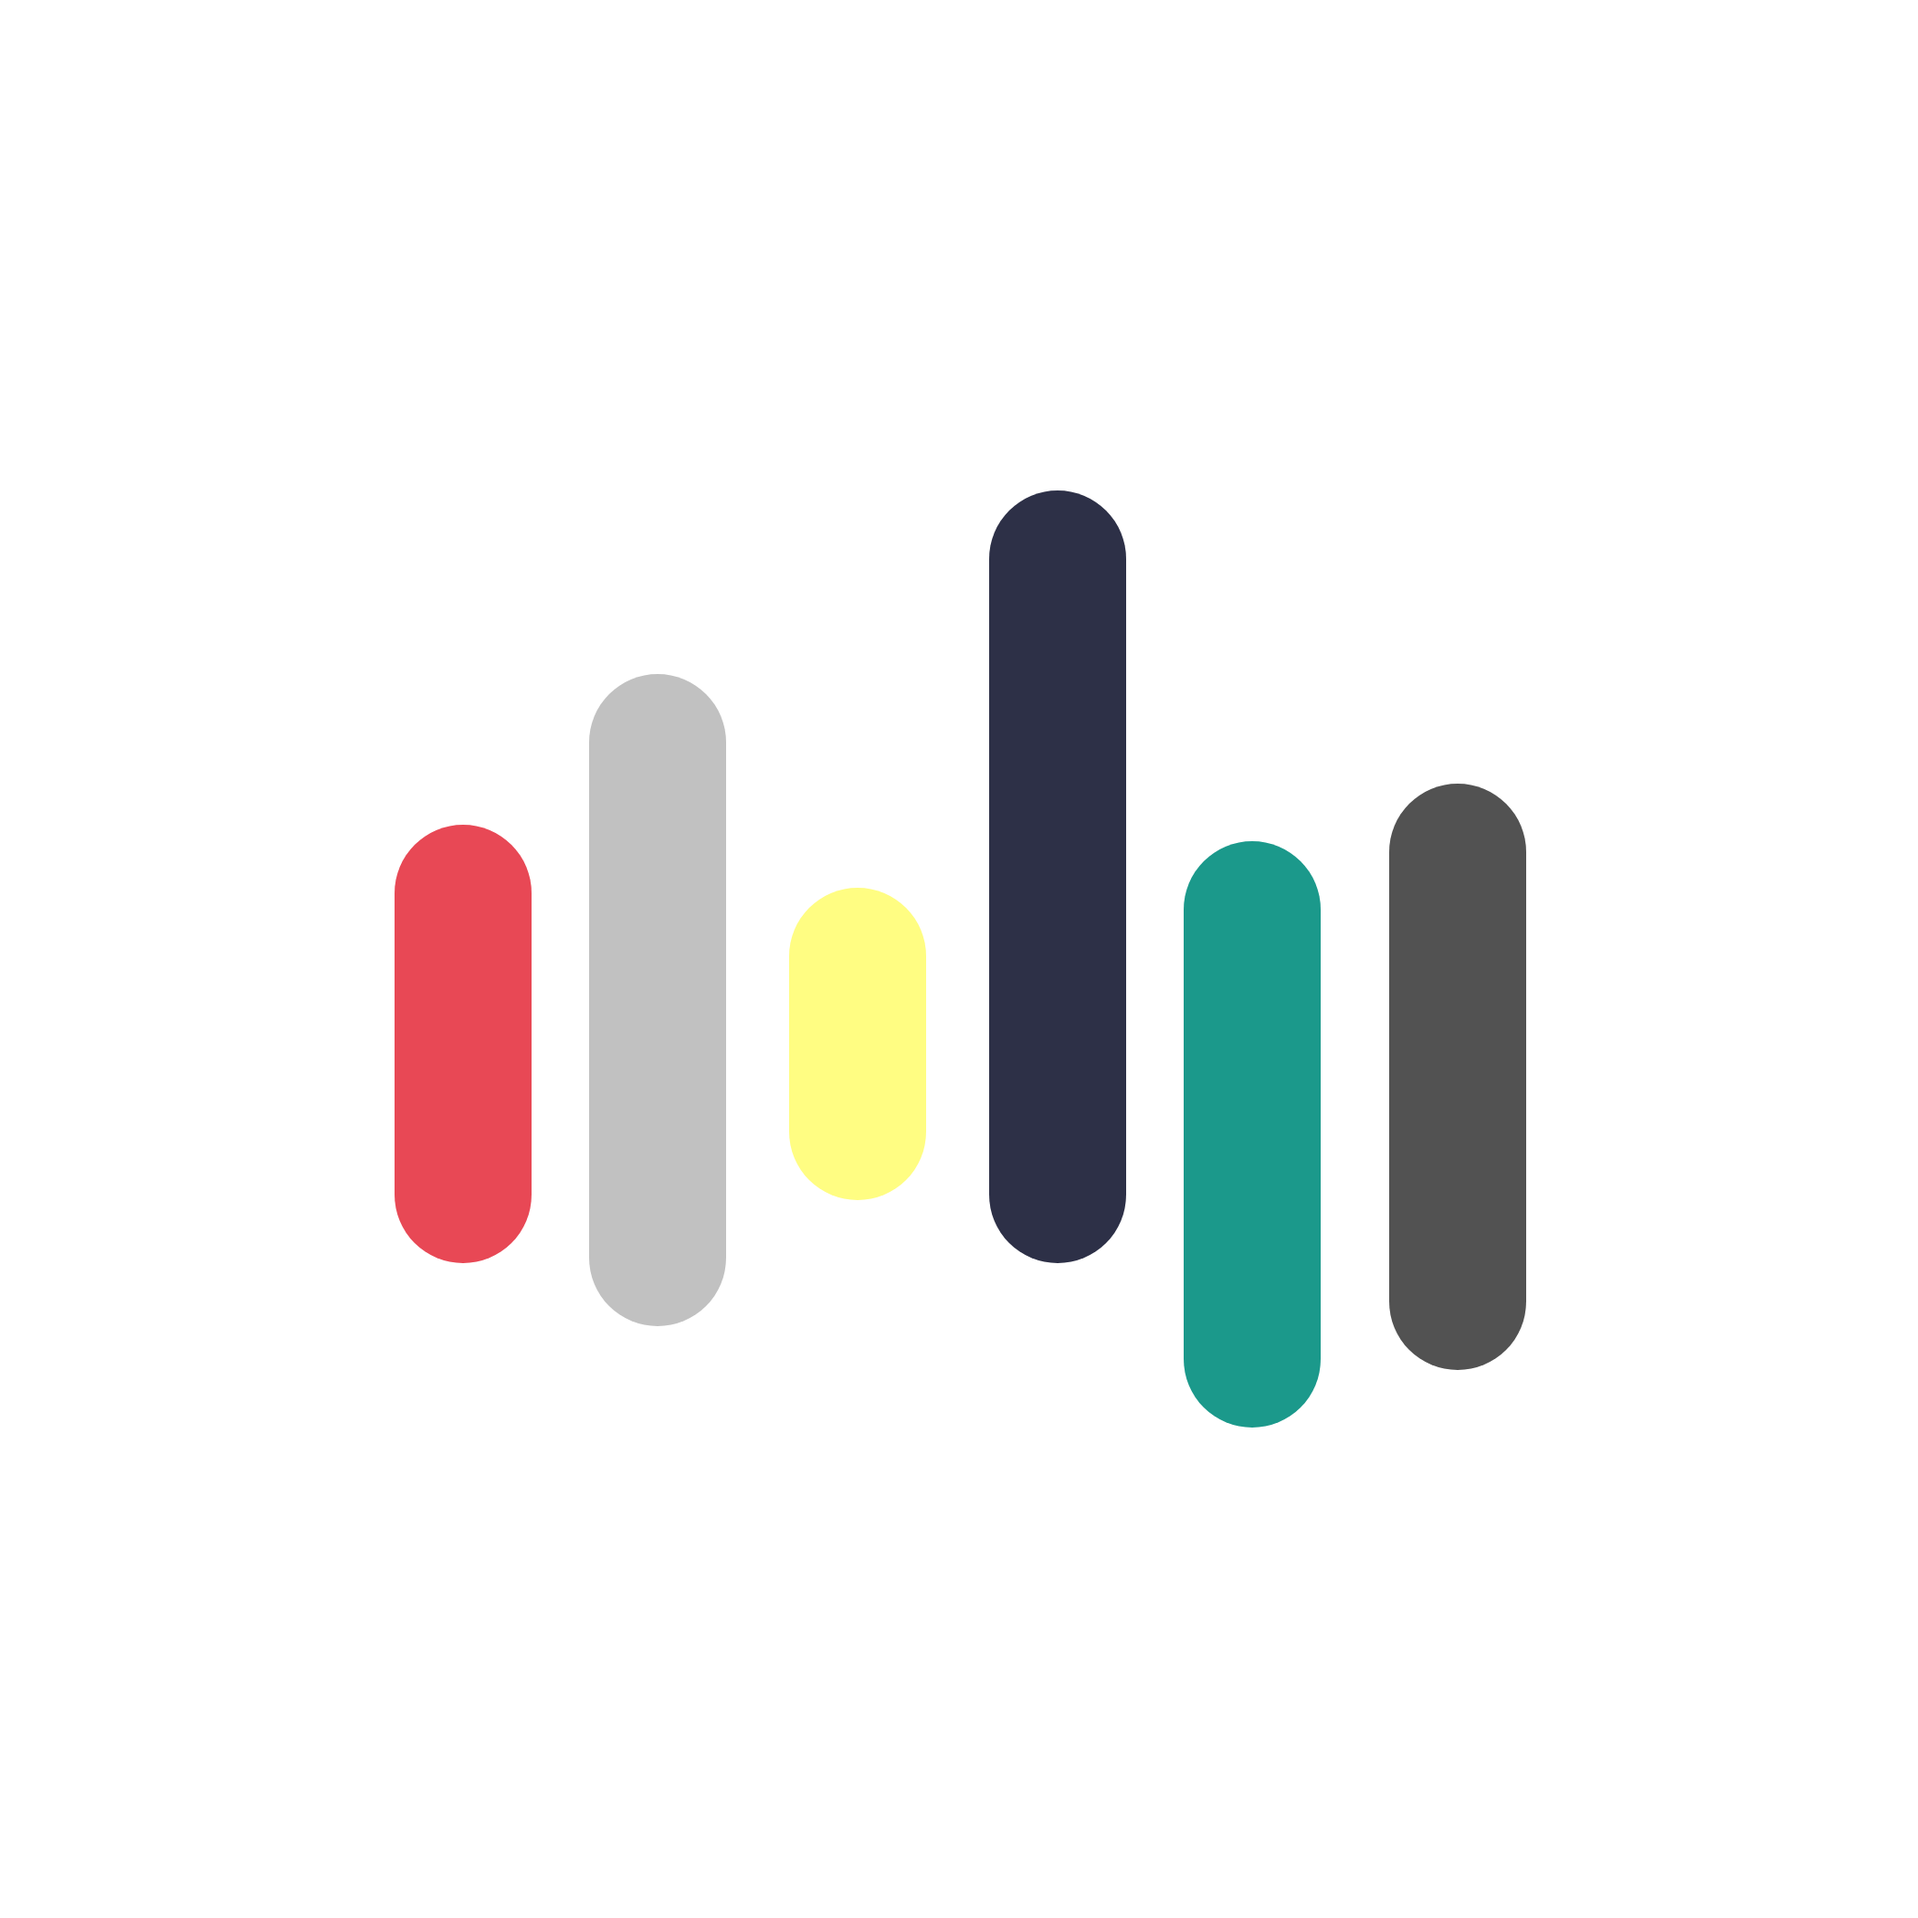
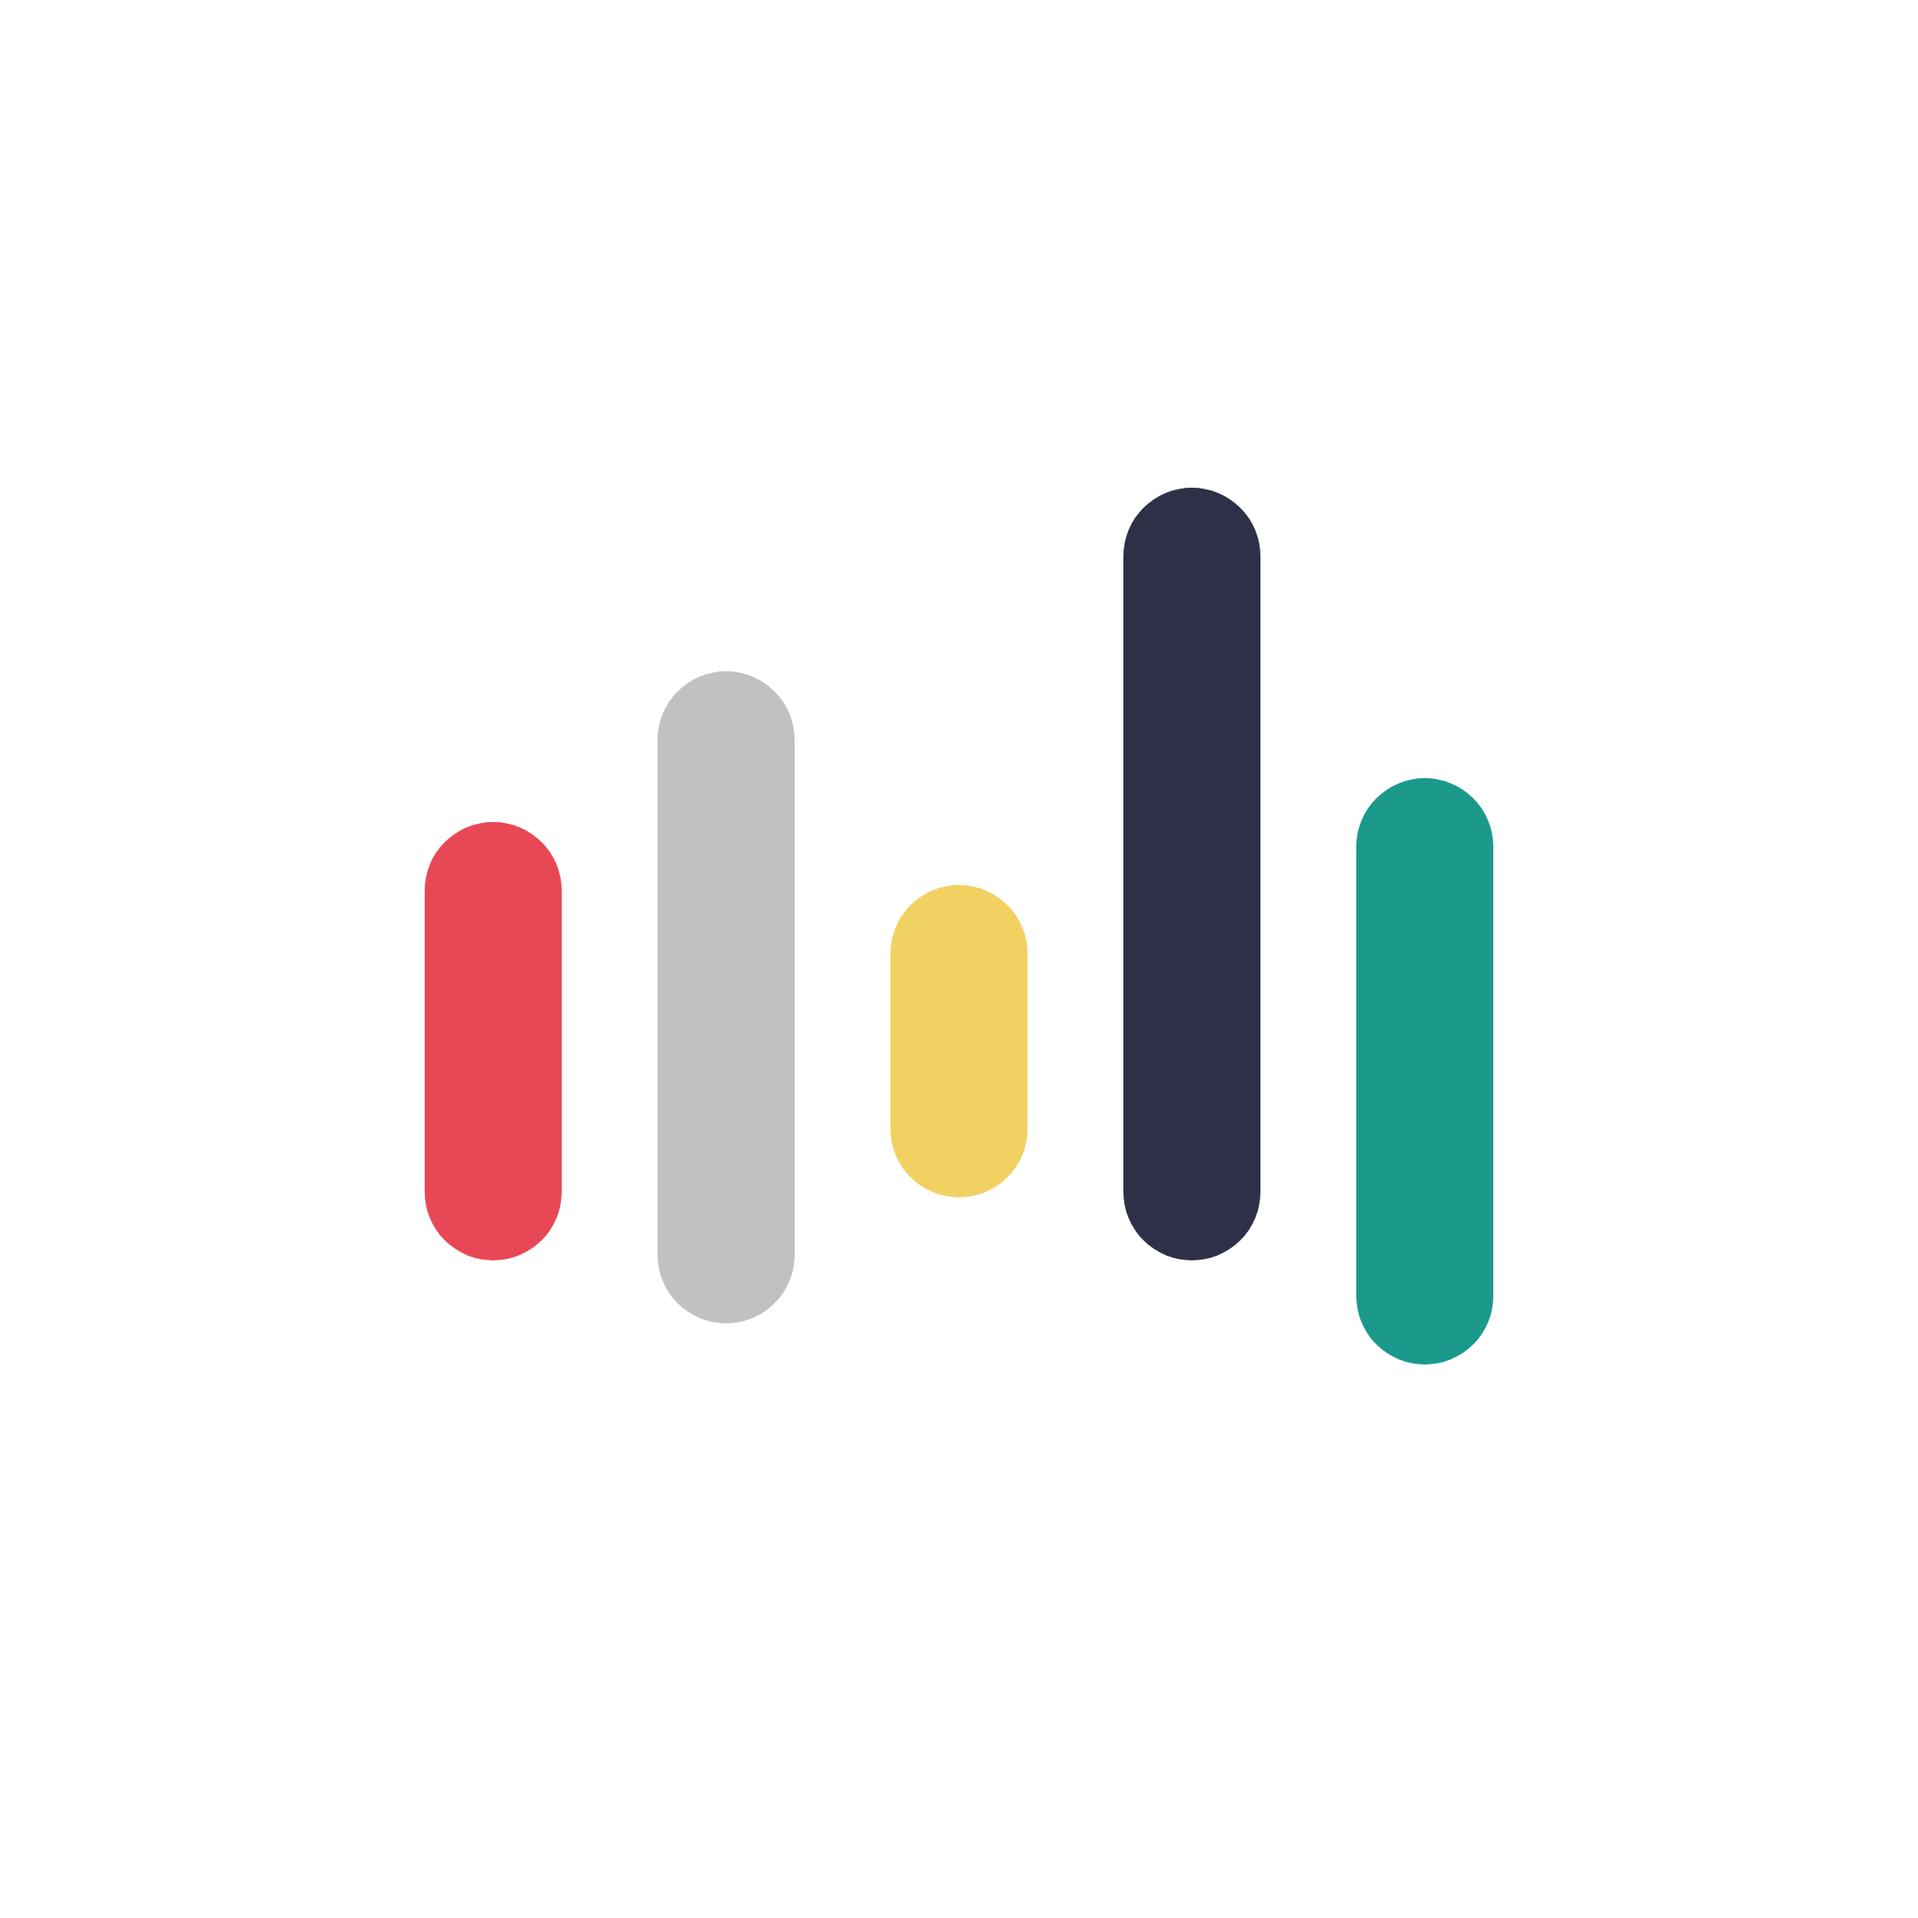
chore: アイコン差し替え.

Changed region(s): [[0.1857, 0.2476, 0.8048, 0.7429]]

diff --git a/lib/page/list.dart b/lib/page/list.dart
@@ -5,19 +5,30 @@ class ListPage extends StatelessWidget {
     length: 2,
     child: Scaffold(
       appBar: AppBar(
-        bottom: TabBar(tabs: [
-          Tab(icon: Icon(Icons.directions_car)),
-          Tab(icon: Icon(Icons.directions_transit)),
-        ]),
+        flexibleSpace: Column(
+          mainAxisAlignment: MainAxisAlignment.end,
+          children: <Widget>[
+            TabBar(
+              tabs: [
+                Tab(text: 'タイムライン', icon: Icon(Icons.directions_transit)),
+                Tab(text: 'お気に入り', icon: Icon(Icons.directions_transit)),
+              ],
+            )
+          ],
+        ),
       ),
     ),
   );
-
   @override
   Widget build(BuildContext context) {
-    return Scaffold(
-        body: Center(
-      child: Text('this is list page'),
-    ));
+    return _tabcontroller;
   }
+
+//  @override
+//  Widget build(BuildContext context) {
+//    return Scaffold(
+//        body: Center(
+//      child: Text('this is list page'),
+//    ));
+//  }
 }

diff --git a/lib/app.dart b/lib/app.dart
@@ -1,9 +1,9 @@
 import 'dart:ui';
 
-import 'package:ff_sampler/page/list.dart';
-import 'package:ff_sampler/page/mypage.dart';
-import 'package:ff_sampler/theme.dart';
 import 'package:flutter/material.dart';
+import 'package:nippo/page/list.dart';
+import 'package:nippo/page/mypage.dart';
+import 'package:nippo/theme.dart';
 
 class MyApp extends StatelessWidget {
   // This widget is the root of your application.
@@ -57,7 +57,7 @@ class _MyHomePageState extends State<MyHomePage> {
 //  ロゴアイコンの宣言
   Image appLogo = new Image(
     image: new ExactAssetImage('assets/img/ic_main_logo.png'),
-    height: 36.0,
+    height: 44.0,
     alignment: FractionalOffset.center,
   );
 

diff --git a/test/widget_test.dart b/test/widget_test.dart
@@ -5,9 +5,9 @@
 // gestures. You can also use WidgetTester to find child widgets in the widget
 // tree, read text, and verify that the values of widget properties are correct.
 
-import 'package:ff_sampler/app.dart';
 import 'package:flutter/material.dart';
 import 'package:flutter_test/flutter_test.dart';
+import 'package:nippo/app.dart';
 
 void main() {
   testWidgets('Counter increments smoke test', (WidgetTester tester) async {

diff --git a/android/app/src/main/kotlin/com/example/ff_sampler/MainActivity.kt b/android/app/src/main/kotlin/com/example/ff_sampler/MainActivity.kt
@@ -1,4 +1,4 @@
-package com.example.ff_sampler
+package com.example.nippo
 
 import androidx.annotation.NonNull;
 import io.flutter.embedding.android.FlutterActivity

diff --git a/lib/main.dart b/lib/main.dart
@@ -1,4 +1,4 @@
-import 'package:ff_sampler/app.dart';
 import 'package:flutter/material.dart';
+import 'package:nippo/app.dart';
 
 void main() => runApp(MyApp());

diff --git a/README.md b/README.md
@@ -1,4 +1,4 @@
-# ff_sampler
+# nippo
 
 A new Flutter project.
 
